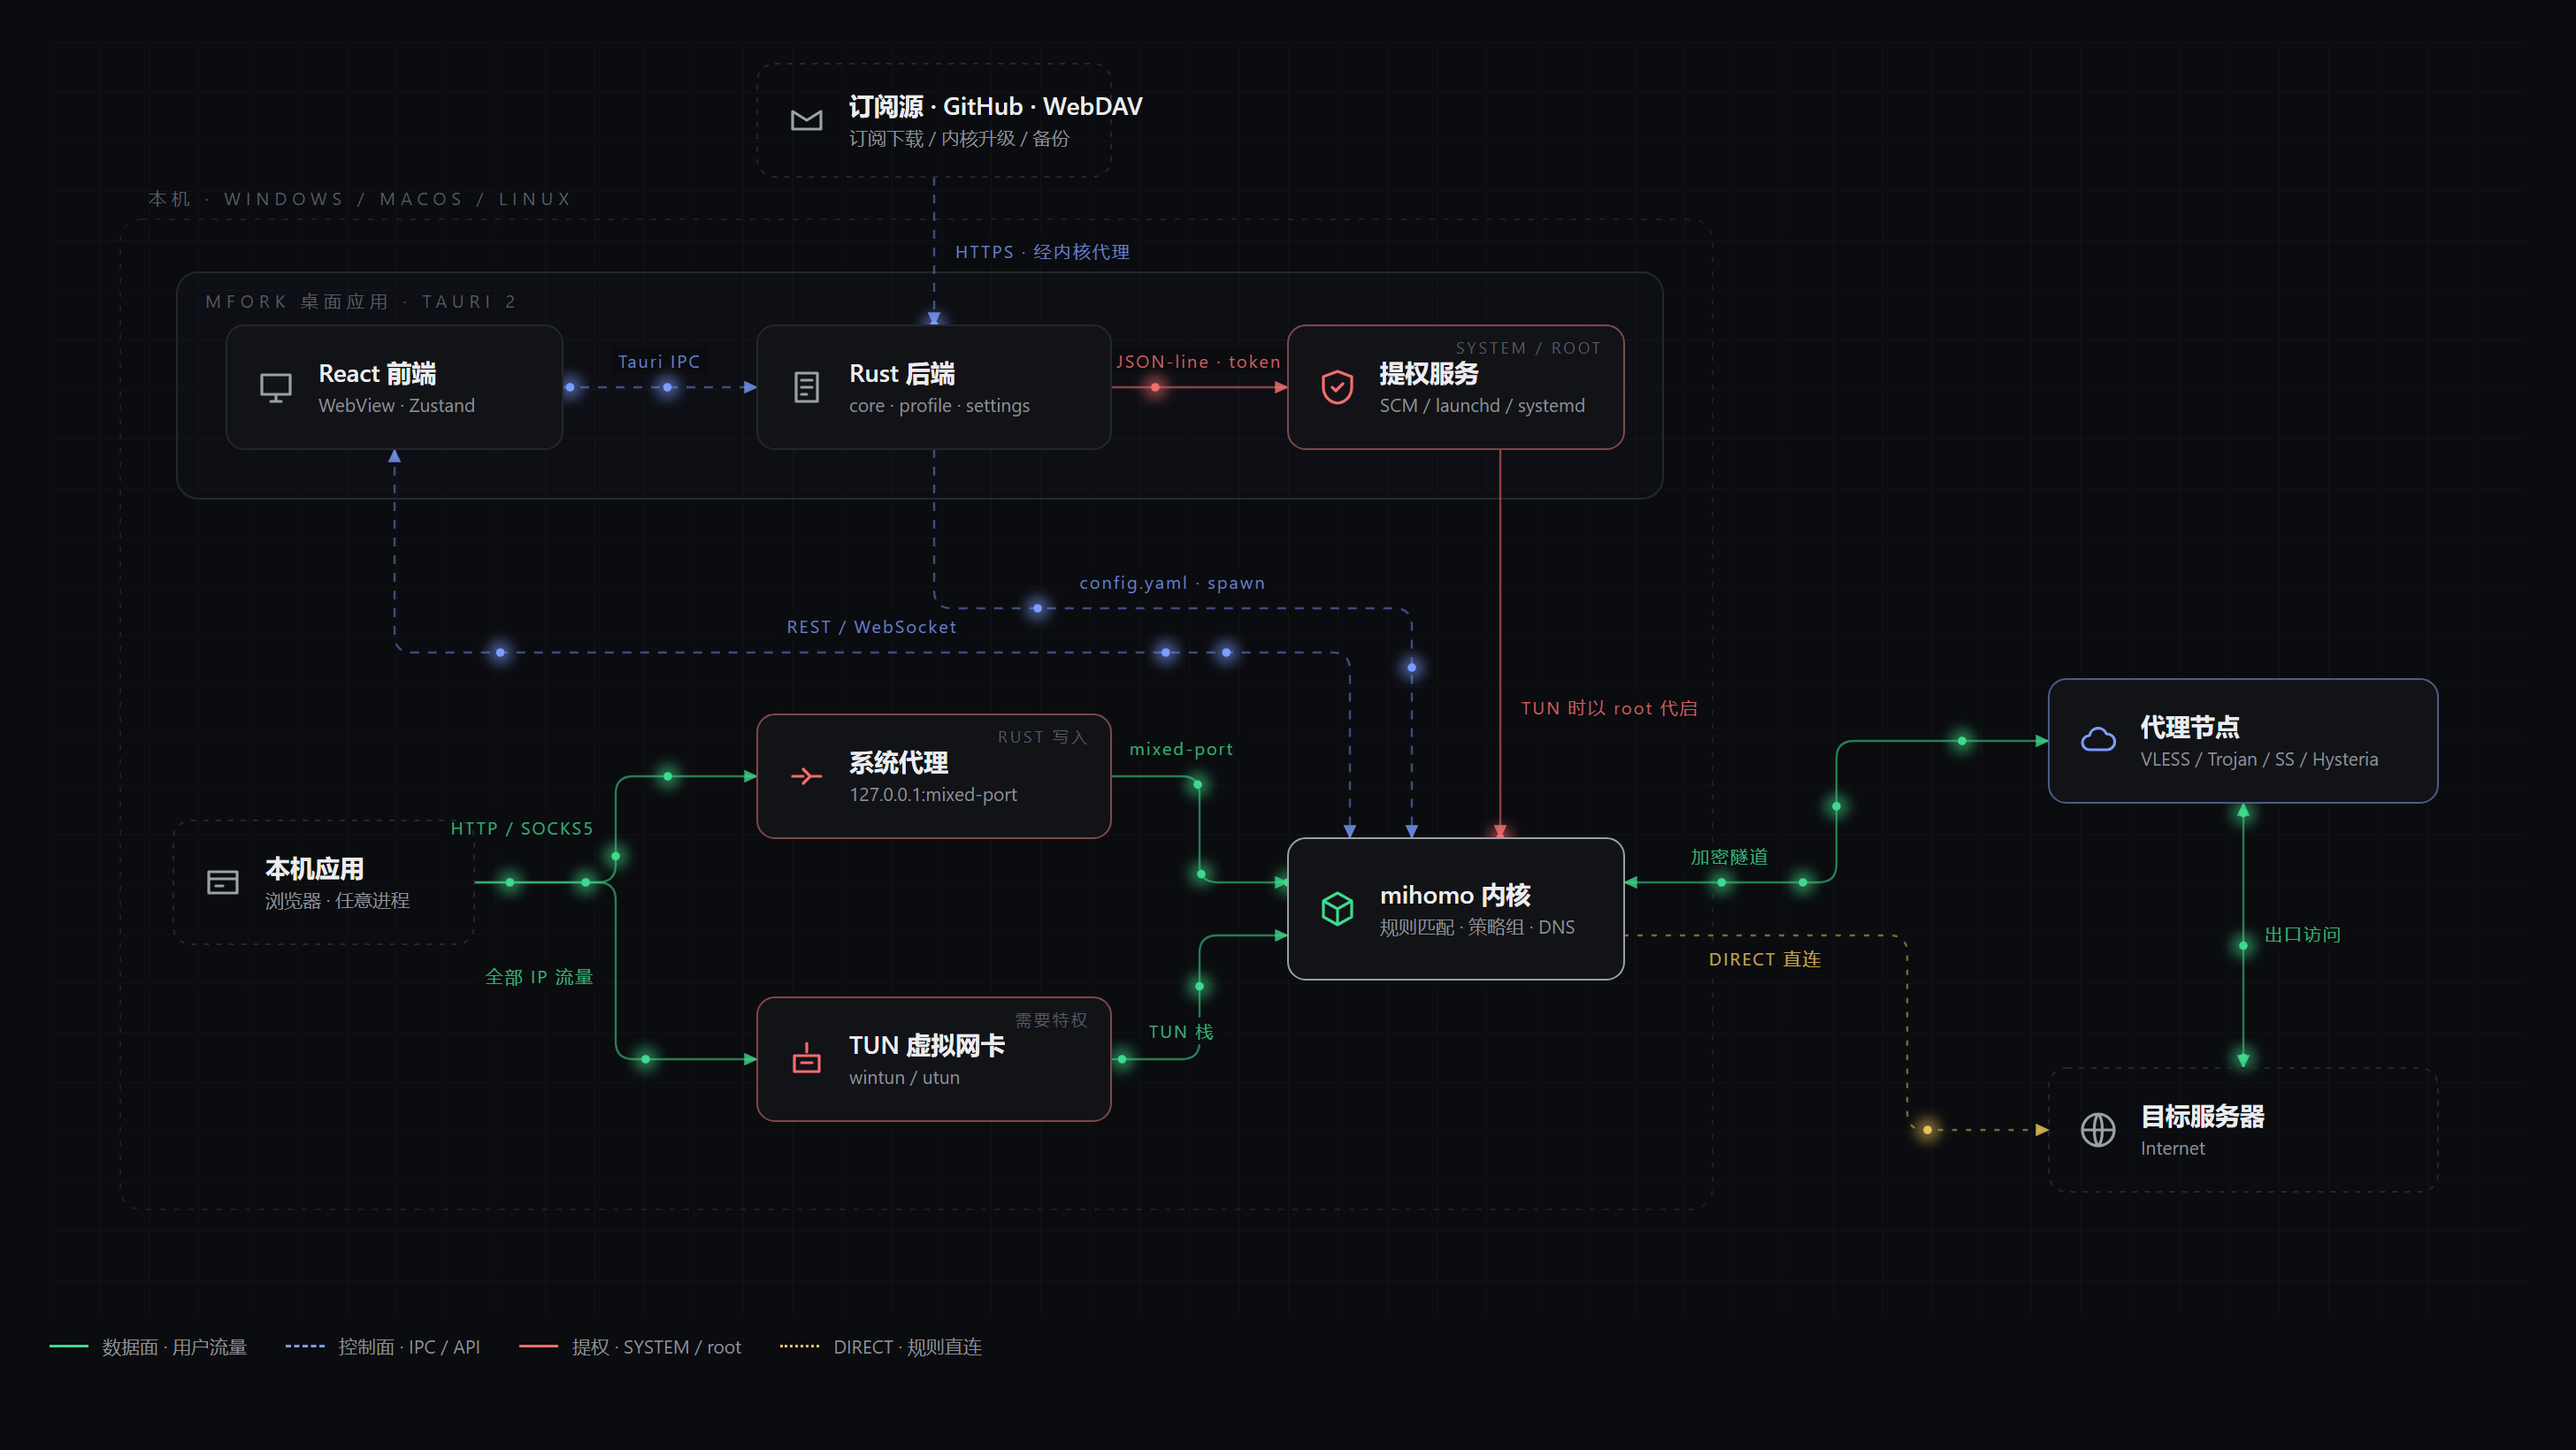
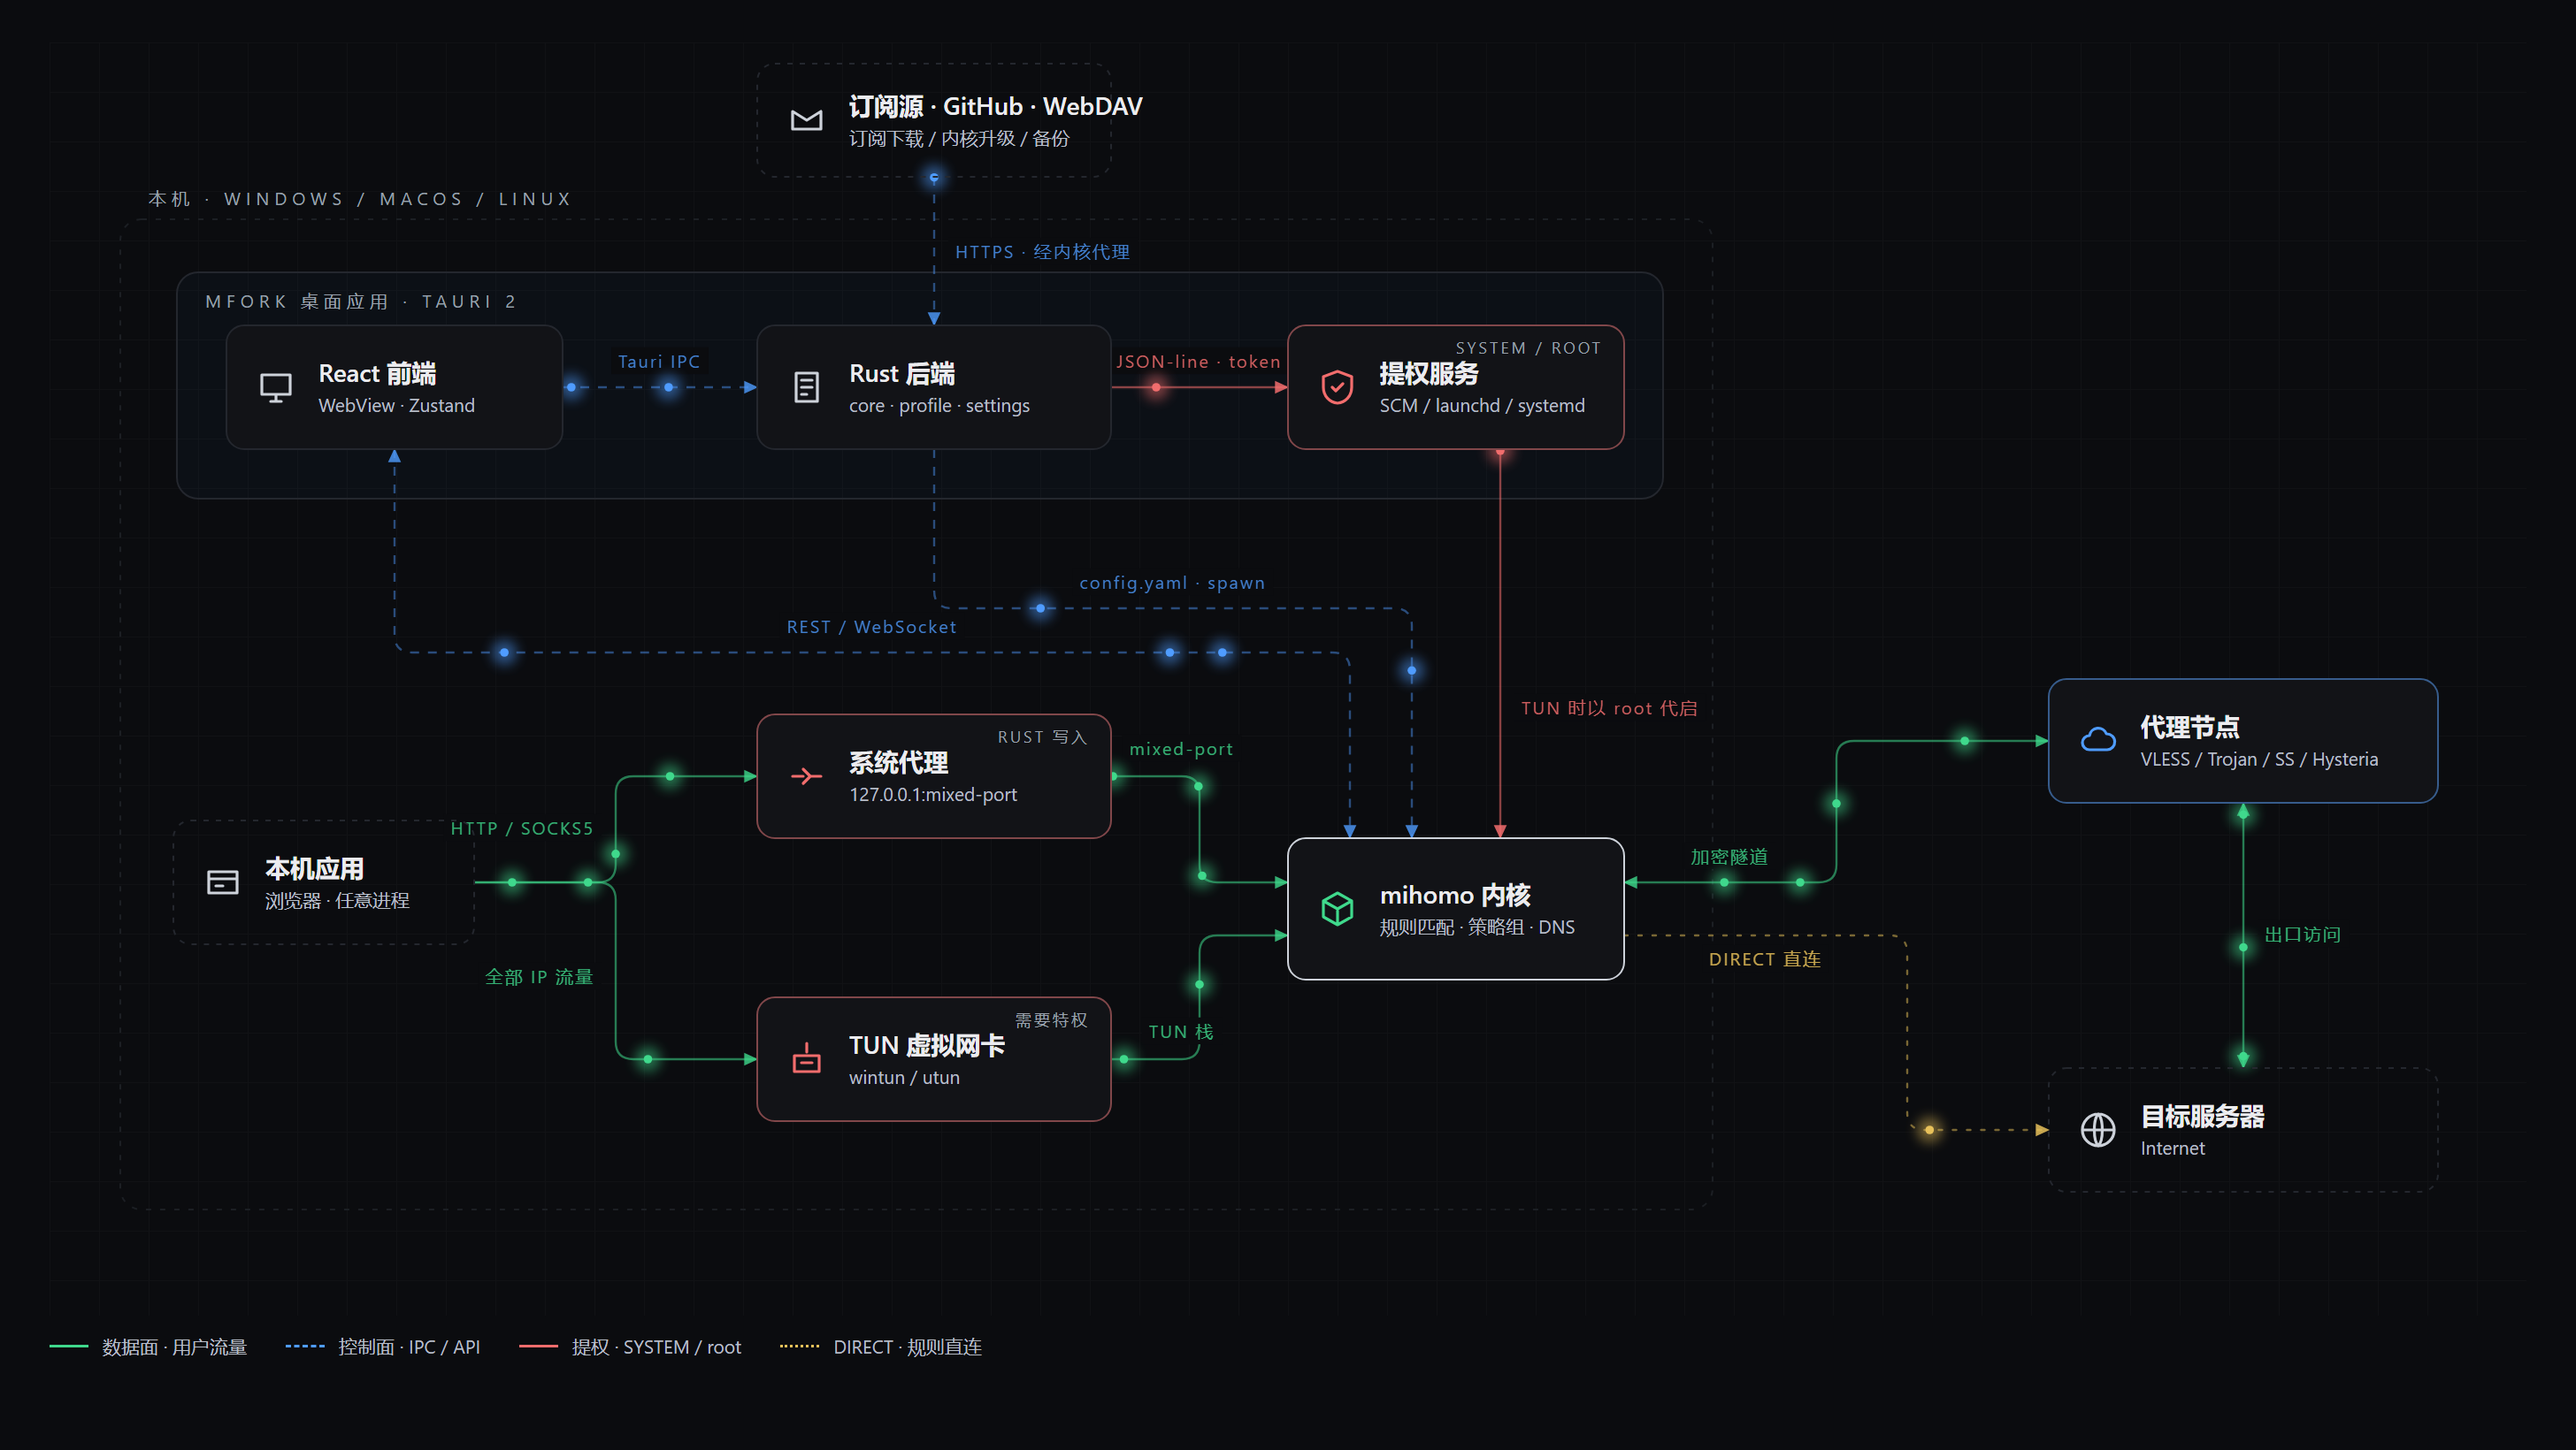
Palette: blue accent instead of periwinkle, third lift of mid grays
#7c9cff read as purple on macOS; accent is now #4f9cff (dark) / #2b6fe0
(light). Mid grays move up once more (dim #9aa1ac, mut #b8bec8, fg-3
#cdd2da). The architecture diagram page and its README capture follow the
same palette.

diff --git a/docs/diagrams/mfork-architecture.html b/docs/diagrams/mfork-architecture.html
@@ -15,12 +15,12 @@
     --line: #1c1f24;
     --line-strong: #24272e;
     --fg: #ececef;
-    --fg-2: #c3c8d0;
-    --fg-3: #9aa0a8;
-    --mut: #8b8f97;
-    --dim: #565b63;
-    --faint: #3a3f47;
-    --accent: #7c9cff;
+    --fg-2: #e2e5ea;
+    --fg-3: #cdd2da;
+    --mut: #b8bec8;
+    --dim: #9aa1ac;
+    --faint: #626871;
+    --accent: #4f9cff;
     --ok: #3fd98c;
     --warn: #e8c15a;
     --err: #f26d6d;
@@ -40,7 +40,7 @@
     --mut: #6b7079;
     --dim: #9a9ea6;
     --faint: #c8cbd1;
-    --accent: #4a6be0;
+    --accent: #2b6fe0;
     --ok: #1f9d5c;
     --warn: #a8801a;
     --err: #d64545;
@@ -84,7 +84,7 @@
   /* ---------- svg parts ---------- */
   .region { fill: none; stroke: var(--line); stroke-dasharray: 3 5; }
   .region-label { font-size: 10px; letter-spacing: 3px; fill: var(--dim); text-transform: uppercase; }
-  .app-boundary { fill: rgba(124, 156, 255, 0.025); stroke: var(--line-strong); }
+  .app-boundary { fill: rgba(79, 156, 255, 0.03); stroke: var(--line-strong); }
   [data-theme="light"] .app-boundary { fill: rgba(74, 107, 224, 0.04); }
 
   .node { cursor: default; transition: opacity .25s ease; }

diff --git a/src/index.css b/src/index.css
@@ -9,18 +9,18 @@
   --t-line: #262a32;
   --t-line-strong: #30353e;
   --t-fg: #f2f3f5;
-  --t-fg-2: #dde0e6;
-  --t-fg-3: #c4c9d2;
-  --t-mut: #aab0ba;
-  --t-dim: #8a919d;
-  --t-faint: #575d66;
+  --t-fg-2: #e2e5ea;
+  --t-fg-3: #cdd2da;
+  --t-mut: #b8bec8;
+  --t-dim: #9aa1ac;
+  --t-faint: #626871;
   --t-toggle-off: #30353e;
   --t-knob: #e7e9ec;
   --t-knob-on: #101114;
   --t-logo-bg: #f2f3f5;
   --t-logo-fg: #101114;
   --t-nav-active: rgba(255, 255, 255, 0.06);
-  --t-accent: #7c9cff;
+  --t-accent: #4f9cff;
   --t-ok: #3fd98c;
   --t-warn: #e8c15a;
   --t-err: #f26d6d;
@@ -45,7 +45,7 @@
   --t-logo-bg: #141518;
   --t-logo-fg: #f7f7f8;
   --t-nav-active: rgba(0, 0, 0, 0.06);
-  --t-accent: #4a6be0;
+  --t-accent: #2b6fe0;
   --t-ok: #1f9d5c;
   --t-warn: #a8801a;
   --t-err: #d64545;
